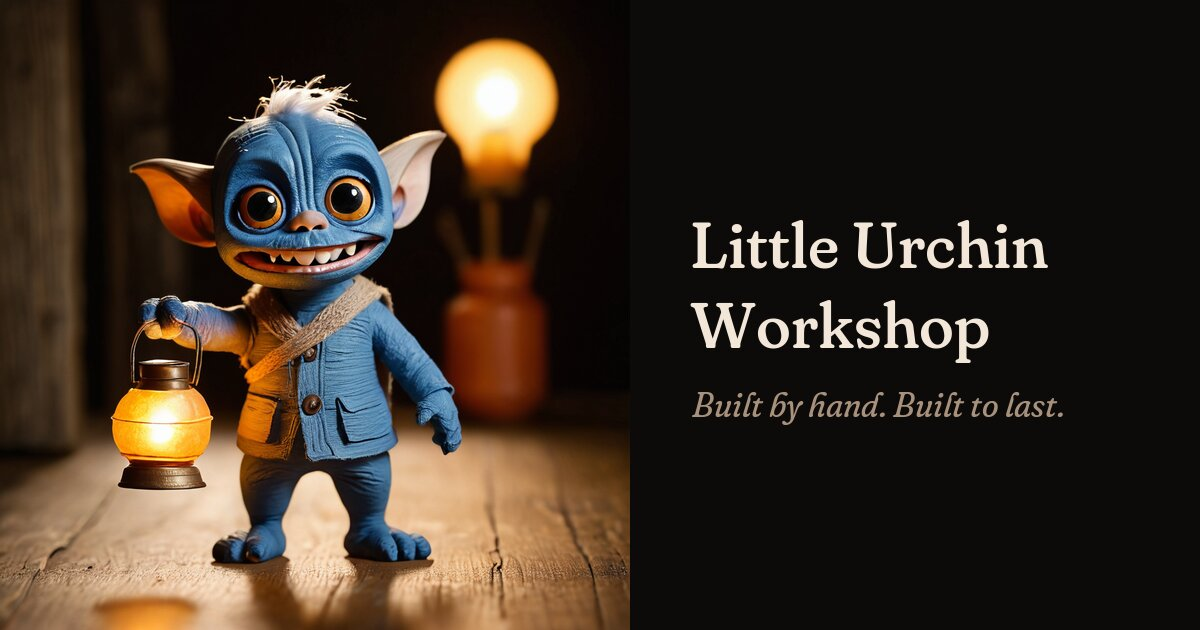
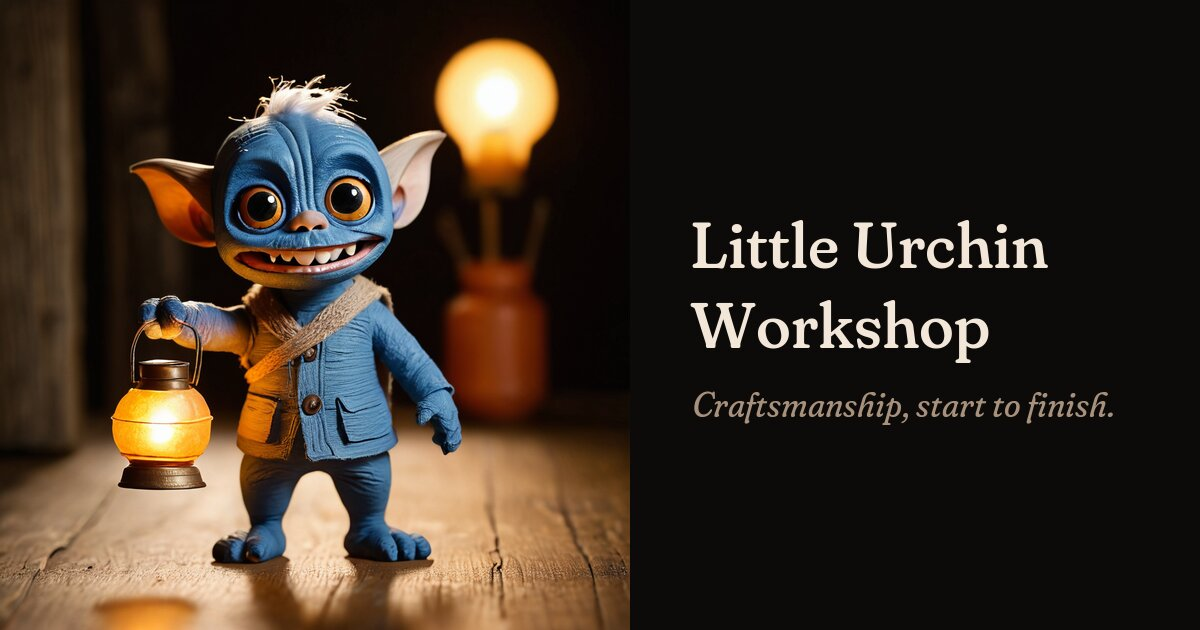
Tagline: "Craftsmanship, start to finish." Systems-engineering description
Description: "Systems engineering for the web: CMS architecture, Drupal, data
pipelines, and AI that earns its keep." Schema knowsAbout broadened to
match. OG image regenerated with the new tagline.

Changed region(s): [[0.555, 0.6032, 0.925, 0.6635]]

diff --git a/index.html b/index.html
@@ -3,18 +3,18 @@
 <head>
   <meta charset="utf-8">
   <meta name="viewport" content="width=device-width, initial-scale=1">
-  <title>Little Urchin Workshop · Built by hand. Built to last.</title>
+  <title>Little Urchin Workshop · Craftsmanship, start to finish.</title>
   <link rel="canonical" href="https://littleurchinworkshop.com/">
   <link rel="icon" href="/assets/favicon.svg" type="image/svg+xml">
   <link rel="icon" href="/assets/favicon-light-32.png" sizes="32x32" type="image/png" media="(prefers-color-scheme: light)">
   <link rel="icon" href="/assets/favicon-dark-32.png" sizes="32x32" type="image/png" media="(prefers-color-scheme: dark)">
   <link rel="apple-touch-icon" href="/assets/apple-touch-icon.png">
-  <meta name="description" content="Drupal development for agencies and the cultural institutions they serve: integrations, collections data, search, and the tricky bits nobody else wants.">
+  <meta name="description" content="Systems engineering for the web: CMS architecture, Drupal, data pipelines, and AI that earns its keep.">
   <meta name="theme-color" content="#0d0b0a">
   <meta property="og:type" content="website">
   <meta property="og:url" content="https://littleurchinworkshop.com/">
-  <meta property="og:title" content="Little Urchin Workshop · Built by hand. Built to last.">
-  <meta property="og:description" content="Drupal development for agencies and the cultural institutions they serve: integrations, collections data, search, and the tricky bits nobody else wants.">
+  <meta property="og:title" content="Little Urchin Workshop · Craftsmanship, start to finish.">
+  <meta property="og:description" content="Systems engineering for the web: CMS architecture, Drupal, data pipelines, and AI that earns its keep.">
   <meta property="og:image" content="https://littleurchinworkshop.com/assets/og-image.jpg">
   <meta property="og:image:width" content="1200">
   <meta property="og:image:height" content="630">
@@ -23,7 +23,7 @@
   <link rel="preconnect" href="https://fonts.gstatic.com" crossorigin>
   <link href="https://fonts.googleapis.com/css2?family=Fraunces:ital,opsz,wght,SOFT,WONK@0,9..144,500,100,1;1,9..144,400,100,1&display=swap" rel="stylesheet">
   <script type="application/ld+json">
-{
+  {
     "@context": "https://schema.org",
     "@graph": [
       {
@@ -33,8 +33,8 @@
         "legalName": "Little Urchin Workshop LLC",
         "url": "https://littleurchinworkshop.com/",
         "email": "info@littleurchinworkshop.com",
-        "slogan": "Built by hand. Built to last.",
-        "description": "Drupal development for agencies and the cultural institutions they serve: integrations, collections data, search, and the tricky bits nobody else wants.",
+        "slogan": "Craftsmanship, start to finish.",
+        "description": "Systems engineering for the web: CMS architecture, Drupal, data pipelines, and AI that earns its keep.",
         "logo": "https://littleurchinworkshop.com/assets/apple-touch-icon.png",
         "image": "https://littleurchinworkshop.com/assets/og-image.jpg",
         "address": {
@@ -54,12 +54,14 @@
           ]
         },
         "knowsAbout": [
+          "Systems engineering",
+          "Content management systems",
           "Drupal",
           "PHP",
           "Data integration",
           "Museum collections data",
           "Full-text search",
-          "Web performance and caching"
+          "AI integration"
         ]
       },
       {
@@ -191,7 +193,7 @@
       <img src="/assets/hero-1024.jpg" srcset="/assets/hero-640.jpg 640w, /assets/hero-1024.jpg 1024w" sizes="(min-width: 410px) 360px, 88vw" width="1024" height="1024" alt="A small slate-blue monster in a patched little coat, holding up a glowing lantern on a dark workbench">
     </picture>
     <h1>Little Urchin Workshop</h1>
-    <p class="tagline">Built by hand. Built to last.</p>
+    <p class="tagline">Craftsmanship, start to finish.</p>
     <a href="mailto:info@littleurchinworkshop.com">info@littleurchinworkshop.com</a>
     <section class="floor" aria-hidden="true">
       <div class="tile"><img alt="" sizes="(max-width: 600px) 45vw, 180px"><img alt="" sizes="(max-width: 600px) 45vw, 180px"></div>
